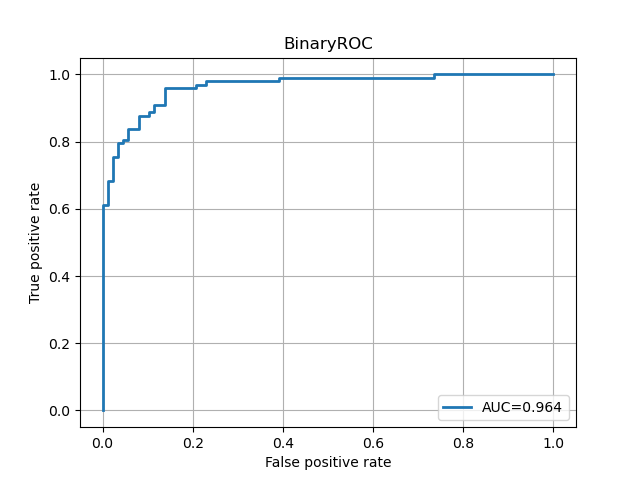
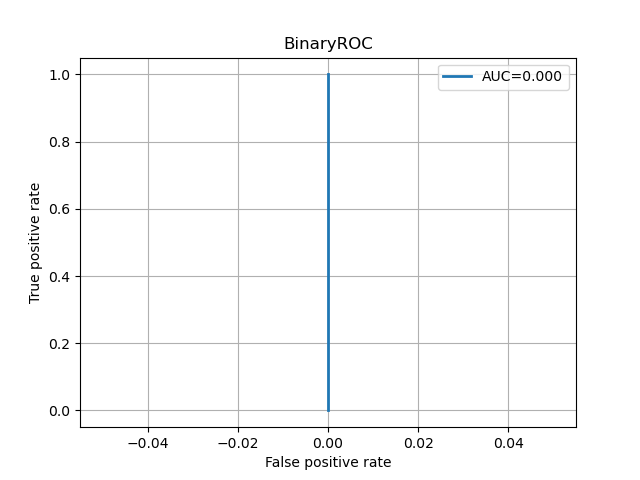
add merit analysis

diff --git a/src/data.py b/src/data.py
@@ -1,6 +1,6 @@
 from pathlib import Path
-import numpy as np
 
+import numpy as np
 import torch
 from torch.utils.data import Dataset, DataLoader
 
@@ -102,6 +102,63 @@ class FermiLATDataset(Dataset):
         return norm_tensor, label
 
 
+class FermiMeritDataset(Dataset):
+    """ Dataset wrapper for events merit variables.
+    """
+
+    def __init__(self, proton_path: str | Path | None, electron_path: str | Path | None) -> None:
+        """
+        Loads the compressed numpy chunks and assings classification labels.
+
+        Labels:
+            0 = Proton
+            1 = Electron
+        """
+        merit_vars, meta_list, label_list = [], [], []
+
+        # Load Protons
+        if proton_path is not None:
+            logger.debug(f"Loading Protons from {Path(proton_path).name}...")
+            with np.load(proton_path) as archive:
+                merit_vars.append(archive["merit_values"])
+
+                p_meta = archive["meta"]
+                meta_list.append(p_meta)
+                label_list.append(np.zeros(p_meta.shape[0], dtype=np.int64))
+        else:
+            logger.info("No Proton file selected...")
+        
+        if electron_path is not None:
+            logger.debug(f"Loading Electrons from {Path(electron_path).name}...")
+            with np.load(electron_path) as archive:
+                merit_vars.append(archive["merit_values"])
+
+                e_meta = archive["meta"]
+                meta_list.append(e_meta)
+                label_list.append(np.ones(e_meta.shape[0], dtype=np.int64))
+        else:
+            logger.info("No Electron file selected...")
+
+        # Safety check
+        if len(meta_list) == 0:
+            raise ValueError("Both paths cannot be None! Please provide at least one dataset.")
+
+        self.merit_vars = np.concatenate(merit_vars, axis=0)
+        self.meta = np.concatenate(meta_list, axis=0)
+        self.labels = np.concatenate(label_list, axis=0)
+
+        logger.info(f"Dataset ready: {len(self.labels)} total events loaded.")
+
+    def __len__(self):
+        return len(self.labels)
+    
+    def __getitem__(self, idx: int) -> tuple[torch.Tensor, torch.Tensor]:
+        merit_var = self.merit_vars[idx]
+        label = self.labels[idx]
+
+        return torch.from_numpy(merit_var).type(torch.float), torch.tensor(label, dtype=torch.long)
+        
+
 class FermiDataModule:
     """ Manages training split and provides PyTorch DataLoaders.
     """
@@ -110,9 +167,13 @@ class FermiDataModule:
             self,
             proton_path: str | Path | None,
             electron_path: str | Path | None,
-            batch_size: int = 32
+            batch_size: int = 32,
+            merit: bool = False
     ) -> None:
-        self.dataset = FermiLATDataset(proton_path, electron_path)
+        if merit:
+            self.dataset = FermiMeritDataset(proton_path, electron_path)
+        else:
+            self.dataset = FermiLATDataset(proton_path, electron_path)
         self.batch_size = batch_size
         self.train_loader = None
         self.val_loader = None
@@ -135,6 +196,12 @@ class FermiDataModule:
         self.val_loader = DataLoader(val_dataset,
                                      batch_size=self.batch_size,
                                      shuffle=False)
+        
+        for inputs, labels in self.train_loader:
+            logger.debug(f"Batch Inputs Shape: {inputs.shape}")
+            logger.debug(f"Batch Labels Shape: {labels.shape}")
+            logger.debug(f"Test: {inputs.shape}")
+            break # <- Test the first batch
         return self.train_loader, self.val_loader
     
     def get_test_dataset(self, proton_path: str | Path | None, electron_path: str | Path | None) -> DataLoader:

diff --git a/main.py b/main.py
@@ -4,7 +4,7 @@ import argparse
 
 from src.config import Config
 from src.data import FermiDataModule
-from src.model import FermiMultiBranchCNN
+from src.model import FermiMultiBranchCNN, FermiMeritVarsNN
 from src.training_loop import TrainingLoop
 from src.utils import plot_training_results, plot_conf_matrix, plot_roc_curve
 from src.evaluator import Evaluator
@@ -40,6 +40,7 @@ def main(args) -> None:
 
     # Define model
     model = FermiMultiBranchCNN().to(device)
+    merit_model = FermiMeritVarsNN().to(device)
 
     loss_fn = torch.nn.CrossEntropyLoss()
     optimizer = torch.optim.Adam(
@@ -69,7 +70,56 @@ def main(args) -> None:
             learning_rates=trainer.learning_rates,
             save_path=config.plot_save_path
         )
+    
+    if args.merit:
+        merit_optimizer = torch.optim.Adam(
+            params=merit_model.parameters(),
+            lr=config.learning_rate,
+            weight_decay=0
+        )
+        merit_data_module = FermiDataModule(
+            proton_path=config.proton_path,
+            electron_path=config.electron_path,
+            batch_size=config.batch_size,
+            merit=True
+        )
 
+        merit_train_loader, merit_val_loader = merit_data_module.train_split(
+            split=config.train_split, random_state=config.random_seed
+        )
+
+        merit_trainer = TrainingLoop(
+            model=merit_model,
+            loss_fn=loss_fn,
+            optimizer=merit_optimizer,
+            accuracy_fn=acc_fn,
+            device=device,
+            model_save_path=config.merit_model_save_path
+        )
+
+        merit_trainer.run(config.epochs, merit_train_loader, merit_val_loader)
+
+        plot_training_results(
+            epochs=config.epochs,
+            train_losses=merit_trainer.train_losses,
+            val_losses=merit_trainer.val_losses,
+            learning_rates=merit_trainer.learning_rates,
+            save_path=config.merit_plot_save_path
+        )
+
+        merit_evaluator = Evaluator(
+            model=merit_model,
+            loss_fn=loss_fn,
+            accuracy_fn=acc_fn,
+            device=device
+        )
+
+        merit_metrics = merit_evaluator.evaluate(data_loader=merit_val_loader, split_name="Merit Validation")
+        merit_preds = merit_metrics["preds"]
+        merit_truths = merit_metrics["truths"]
+        merit_probs = merit_metrics["probs"]
+        plot_conf_matrix(merit_preds, merit_truths, class_names=config.class_names, save_path=config.merit_conf_matrix_save_path)
+        plot_roc_curve(merit_probs, merit_truths, save_path=config.merit_roc_curve_save_path)
     # Evaluation phase
     # Load the saved model
     logger.info(f"Loading best weights from {config.model_save_path} for evaluation...")
@@ -87,7 +137,7 @@ def main(args) -> None:
         electron_path=config.test_electron_path
     )
 
-    eval_metrics = evaluator.evaluate(data_loader=val_loader, split_name="Validation")
+    eval_metrics = evaluator.evaluate(data_loader=test_loader, split_name="Test")
 
     preds = eval_metrics["preds"]
     truths = eval_metrics["truths"]
@@ -103,7 +153,7 @@ def main(args) -> None:
         logger.warning(f"No electrons found in dataset to calculate recall.")
 
     plot_conf_matrix(preds, truths, config.class_names, save_path=config.conf_matrix_save_path)
-    plot_roc_curve(probs, truths, save_path=config.roc_curve_save_path)
+    # plot_roc_curve(probs, truths, save_path=config.roc_curve_save_path)
     logger.debug(f"Exported evaluation metrics to {config.conf_matrix_save_path} and {config.roc_curve_save_path}")
 
 
@@ -111,6 +161,7 @@ if __name__ == '__main__':
     parser = argparse.ArgumentParser(description="Fermi-LAT electron/proton classifier.")
     parser.add_argument("-v", "--verbose", action="store_true", help="Verbose option (set logger to debug mode).")
     parser.add_argument("--train", action="store_true", help="Run the training loop on a newly instantiated model.")
+    parser.add_argument("--merit", action="store_true", help="Run the whole pipeline for the Merit Variables network.")
 
     args = parser.parse_args()
 

diff --git a/src/model.py b/src/model.py
@@ -8,7 +8,6 @@ class FermiMultiBranchCNN(nn.Module):
 
     def __init__(self) -> None:
         super().__init__()
-
         # Construct three identical independent layout structures
         self.branch_x = self._create_branch()
         self.branch_y = self._create_branch()
@@ -58,3 +57,24 @@ class FermiMultiBranchCNN(nn.Module):
         merged_features = torch.cat((out_x, out_y, out_top), dim=1)
         output = self.classifier(merged_features)
         return output
+
+
+class FermiMeritVarsNN(nn.Module):
+    """ Simple classifier for Merit Variables.
+    """
+
+    def __init__(self) -> None:
+        super().__init__()
+
+        self.linear_stack = nn.Sequential(
+            nn.Linear(in_features=17, out_features=10),
+            nn.ReLU(),
+            nn.Linear(in_features=10, out_features=8),
+            nn.ReLU(),
+            nn.Linear(in_features=8, out_features=2)
+
+        )
+
+    def forward(self, x: torch.Tensor) -> torch.Tensor:
+        return self.linear_stack(x)
+        

diff --git a/src/config.py b/src/config.py
@@ -9,15 +9,19 @@ class Config:
 
     # Paths
     data_dir: Path = Path("/data1/grosjacques/data")
-    proton_path: Path = data_dir / "dataset_chunk_allpro_no_norm.npz"
-    electron_path: Path = data_dir / "dataset_chunk_allhee_no_norm.npz"
+    proton_path: Path = data_dir / "dataset_allpro.npz"
+    electron_path: Path = data_dir / "dataset_allhee.npz"
     test_electron_path: Path = data_dir / "dataset_chunk_electronSimo_no_norm.npz"
 
     output_dir = Path("outputs")
     model_save_path: Path = output_dir / "models" / "best_fermi_model.pth"
+    merit_model_save_path: Path = output_dir / "models" / "merit_vars_model.pth"
     plot_save_path: Path = output_dir/ "plots" / "loss_curves.png"
+    merit_plot_save_path: Path = output_dir / "plots" / "merit_training_plots.png"
     conf_matrix_save_path: Path = output_dir / "plots" / "confusion_matrix.png"
+    merit_conf_matrix_save_path: Path = output_dir / "plots" / "merit_confusion_matrix.png"
     roc_curve_save_path: Path = output_dir / "plots" / "roc_curve.png"
+    merit_roc_curve_save_path: Path = output_dir / "plots" / "merit_roc_curve.png"
 
     # Hyperparameters
     random_seed: int = 42

diff --git a/src/training_loop.py b/src/training_loop.py
@@ -54,7 +54,7 @@ class TrainingLoop:
         # Average training loss and accuracy
         train_loss /= len(data_loader)
         train_acc /= len(data_loader)
-        logger.debug(f"Train loss: {train_loss:.5f} | Train acc: {train_acc:.2f}%")
+        logger.debug(f"Train loss: {train_loss:.5f} | Train acc: {train_acc:.2%}")
 
         return train_loss
     
@@ -78,7 +78,7 @@ class TrainingLoop:
             # Adjust metrics and print out
             val_loss /= len(data_loader)
             val_acc /= len(data_loader)
-            logger.debug(f"Validation loss: {val_loss:.5f} | Validation accuracy: {val_acc:.2f}%")
+            logger.debug(f"Validation loss: {val_loss:.5f} | Validation accuracy: {val_acc:.2%}")
         
             return val_loss
         